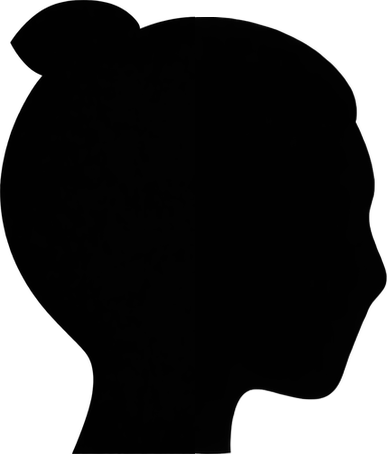
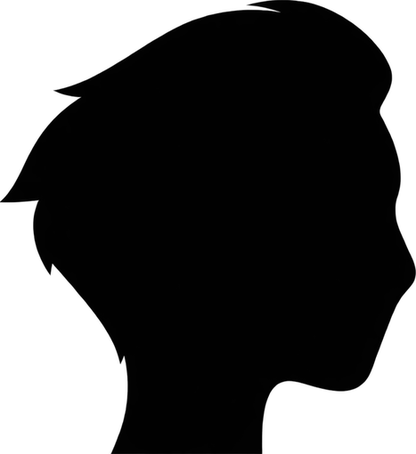
refine(client): give male fighters a layered short haircut

diff --git a/harness/animation-qa/runs/female-traveller/convert.py b/harness/animation-qa/runs/female-traveller/convert.py
@@ -13,7 +13,7 @@ output = root / f"client/gsa/src/{profile}_head.gsa"
 alpha = cv2.imread(str(source), cv2.IMREAD_UNCHANGED)[:, :, 3]
 contours, _ = cv2.findContours((alpha >= 128).astype("uint8"), cv2.RETR_EXTERNAL, cv2.CHAIN_APPROX_SIMPLE)
 # Retain the registration and simplification of the original profile cutout.
-anchor_x, anchor_y = (169, 177) if profile == "female" else (163, 187)
+anchor_x, anchor_y = (169, 177) if profile == "female" else (196, 187)
 scale = 0.078
 edge = cv2.approxPolyDP(max(contours, key=cv2.contourArea), 0.14 / scale, True)[:, 0]
 pairs = [f"({(x - anchor_x) * scale:.2f}, {(y - anchor_y) * scale:.2f})" for x, y in edge]

diff --git a/harness/animation-qa/runs/male-traveller/review.md b/harness/animation-qa/runs/male-traveller/review.md
@@ -1,5 +1,5 @@
-# 束发男角色侧脸
+# 男角色短发侧脸
 
-ImageGen 生成右向、无内部线条的头颈剪影。保留接近原圆头的头盖比例，从后脑往颈部收，下颌有轻微转折；在后上方采用低而扁的折髻，额前干净。以生成素材的后半部和脸部对齐成一张头颈蒙版，原稿为 `client/src/assets/battle/male-traveller/head.png`。从仓库根运行 `python3 harness/animation-qa/runs/female-traveller/convert.py male` 可重建姿势引擎中的轮廓。
+改为往后梳的层次短发。比较贴头短发、分层短发和较蓬的侧分后，选取后脑有两处层次、后颈收短的一版。在手机战斗尺寸下，站姿和前倾时都能读出头发的走向。
 
-实机比较高髻、侧后髻和贴头束髻，选用扁髻配略收的下颌。比较 840 × 540 站姿、重掌前倾与反向劈剑，在 390 × 844 视口抽查起跳、闪避和收势。头颈衔接连续，持剑手臂与后脑轮廓可区分。
+ImageGen 生成的头颈透明原稿在 `client/src/assets/battle/male-traveller/head.png`。从仓库根运行 `python3 harness/animation-qa/runs/female-traveller/convert.py male` 可生成轮廓。比较了 840 × 540 演武场的站姿、重掌和反向劈剑，以及 390 × 844 视口的持剑、起跳、闪避和收势。
